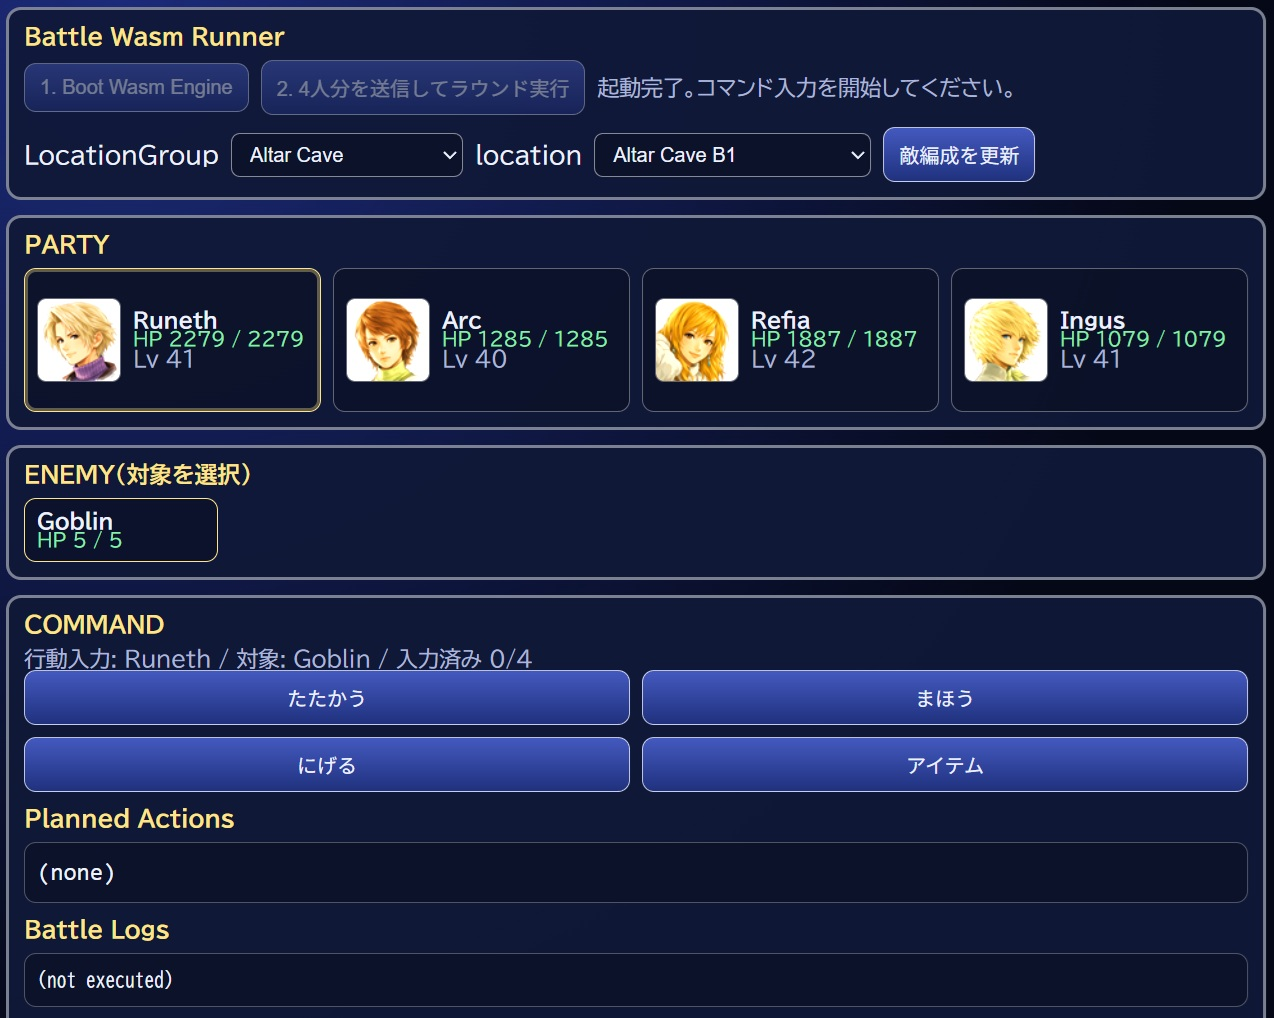
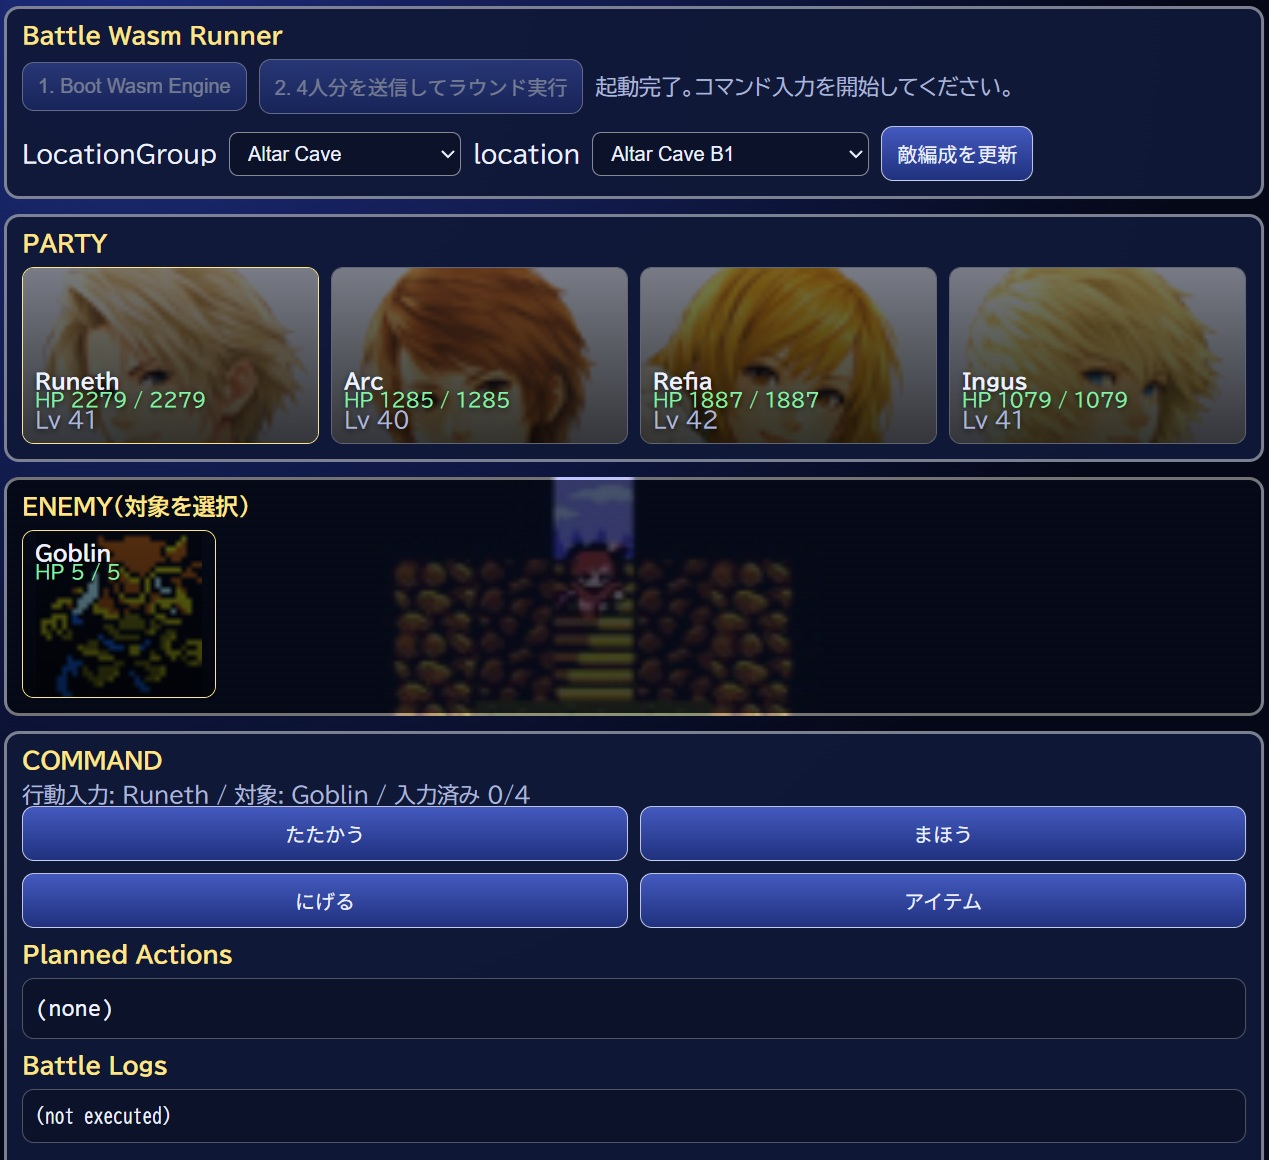
260327Wasm版LocationGroup画像を表示

diff --git a/web_wasm/main.js b/web_wasm/main.js
@@ -13,6 +13,7 @@ const rewardPanel = document.getElementById("rewardPanel");
 const locationGroupSelect = document.getElementById("locationGroupSelect");
 const locationSelect = document.getElementById("locationSelect");
 const locationApplyBtn = document.getElementById("locationApplyBtn");
+const enemyFrame = document.getElementById("enemyFrame");
 
 let pyodide = null;
 let sessionStatus = { party: [], enemies: [] };
@@ -24,6 +25,8 @@ let battleFinished = false;
 let locationGroups = [];
 let inputMode = "command";
 let pendingActionDraft = null;
+let currentSelectedLocationGroup = "";
+const locationMapImageCache = {};
 
 const COMMAND_LABELS = {
   Fight: "たたかう",
@@ -102,6 +105,68 @@ function selectedEnemySafeIndex() {
   const enemies = Array.isArray(sessionStatus.enemies) ? sessionStatus.enemies : [];
   if (!enemies.length) return 0;
   return Math.min(selectedEnemyIndex, enemies.length - 1);
+}
+
+function locationGroupToMapKey(name) {
+  return String(name || "")
+    .trim()
+    .toLowerCase()
+    .replace(/\s+/g, "_");
+}
+
+function resolveLocationMapImageCandidates(locationGroupName) {
+  const key = locationGroupToMapKey(locationGroupName);
+  if (!key) return [];
+  return [
+    `/web_wasm/maps/${key}.jpg`,
+    `/web_wasm/maps/${key}.jpeg`,
+    `/web_wasm/maps/${key}.png`,
+    `../assets/images/maps/${key}.jpg`,
+    `../assets/images/maps/${key}.jpeg`,
+    `../assets/images/maps/${key}.png`,
+  ];
+}
+
+function resolveLocationMapImageUrl(locationGroupName, onResolved) {
+  const key = locationGroupToMapKey(locationGroupName);
+  if (!key) return "";
+
+  const cached = locationMapImageCache[key];
+  if (typeof cached === "string") {
+    return cached;
+  }
+  if (cached === "__loading__") {
+    return "";
+  }
+
+  const candidates = resolveLocationMapImageCandidates(locationGroupName);
+  if (!candidates.length) {
+    locationMapImageCache[key] = "";
+    return "";
+  }
+
+  locationMapImageCache[key] = "__loading__";
+
+  const tryLoad = (index) => {
+    if (index >= candidates.length) {
+      locationMapImageCache[key] = "";
+      if (typeof onResolved === "function") onResolved("");
+      return;
+    }
+    const image = new Image();
+    const url = candidates[index];
+    image.addEventListener("load", () => {
+      locationMapImageCache[key] = url;
+      if (typeof onResolved === "function") onResolved(url);
+    });
+    image.addEventListener("error", () => {
+      tryLoad(index + 1);
+    });
+    image.src = url;
+  };
+
+  tryLoad(0);
+  return "";
 }
 
 function buildActionFromCommand(def) {
@@ -305,6 +370,16 @@ function renderParty() {
 
 function renderEnemies() {
   const enemies = Array.isArray(sessionStatus.enemies) ? sessionStatus.enemies : [];
+  const mapImageUrl = resolveLocationMapImageUrl(currentSelectedLocationGroup, () => {
+    renderEnemies();
+  });
+  if (enemyFrame) {
+    if (mapImageUrl) {
+      enemyFrame.style.backgroundImage = `linear-gradient(rgba(8,14,34,0.68), rgba(8,14,34,0.68)), url("${mapImageUrl}")`;
+    } else {
+      enemyFrame.style.backgroundImage = "none";
+    }
+  }
   enemyGrid.innerHTML = "";
   enemies.forEach((enemy, idx) => {
     const card = document.createElement("article");
@@ -758,6 +833,9 @@ def run_battle_round_wasm(js_input_json):
       7,
     ),
   );
+  currentSelectedLocationGroup = String(
+    initialPayload?.selected_location_group || locationGroupSelect.value || "",
+  );
   sessionStatus = initialPayload?.session_status ?? { party: [], enemies: [] };
   lifecycleState = "ready_for_actions";
   battleFinished = false;
@@ -793,6 +871,9 @@ async function executeRound() {
   const result = JSON.parse(resultJson);
 
   sessionStatus = result?.session_status ?? sessionStatus;
+  currentSelectedLocationGroup = String(
+    result?.selected_location_group || currentSelectedLocationGroup || "",
+  );
   lifecycleState = result?.lifecycle?.after === "ready_for_next_round"
     ? "ready_for_actions"
     : (result?.lifecycle?.after ?? "ready_for_actions");
@@ -845,6 +926,9 @@ if (locationApplyBtn) {
         locationSelect.value || "",
         7,
       ),
+    );
+    currentSelectedLocationGroup = String(
+      payload?.selected_location_group || locationGroupSelect.value || "",
     );
     sessionStatus = payload?.session_status ?? { party: [], enemies: [] };
     lifecycleState = "ready_for_actions";

diff --git a/web_wasm/index.html b/web_wasm/index.html
@@ -36,6 +36,11 @@
         background: rgba(16, 24, 56, 0.95);
         padding: 10px;
       }
+      #enemyFrame {
+        background-size: cover;
+        background-position: center center;
+        background-repeat: no-repeat;
+      }
       .title { margin: 0 0 8px; color: var(--accent); font-size: 0.95rem; }
       .toolbar { display: flex; gap: 8px; flex-wrap: wrap; align-items: center; }
       .selector-row {
@@ -135,6 +140,9 @@
         overflow: hidden;
         min-height: 112px;
         isolation: isolate;
+        background-size: cover;
+        background-position: center center;
+        background-repeat: no-repeat;
       }
       .enemy-card::before {
         content: "";
@@ -233,7 +241,7 @@
         <div id="partyGrid" class="party-grid"></div>
       </section>
 
-      <section class="frame">
+      <section id="enemyFrame" class="frame">
         <h2 class="title">ENEMY（対象を選択）</h2>
         <div id="enemyGrid" class="enemy-grid"></div>
       </section>

diff --git a/wasm_app.py b/wasm_app.py
@@ -35,6 +35,16 @@ class WasmRequestHandler(SimpleHTTPRequestHandler):
                 self.send_error(404, "File not found")
                 return
             self.path = f"/assets/images/enemy_sprites/{file_name}"
+        elif request_path.startswith("/web_wasm/maps/"):
+            file_name = Path(request_path).name
+            if not file_name:
+                self.send_error(404, "File not found")
+                return
+            image_path = REPO_ROOT / "assets" / "images" / "maps" / file_name
+            if not image_path.is_file():
+                self.send_error(404, "File not found")
+                return
+            self.path = f"/assets/images/maps/{file_name}"
         super().do_GET()
 
 
